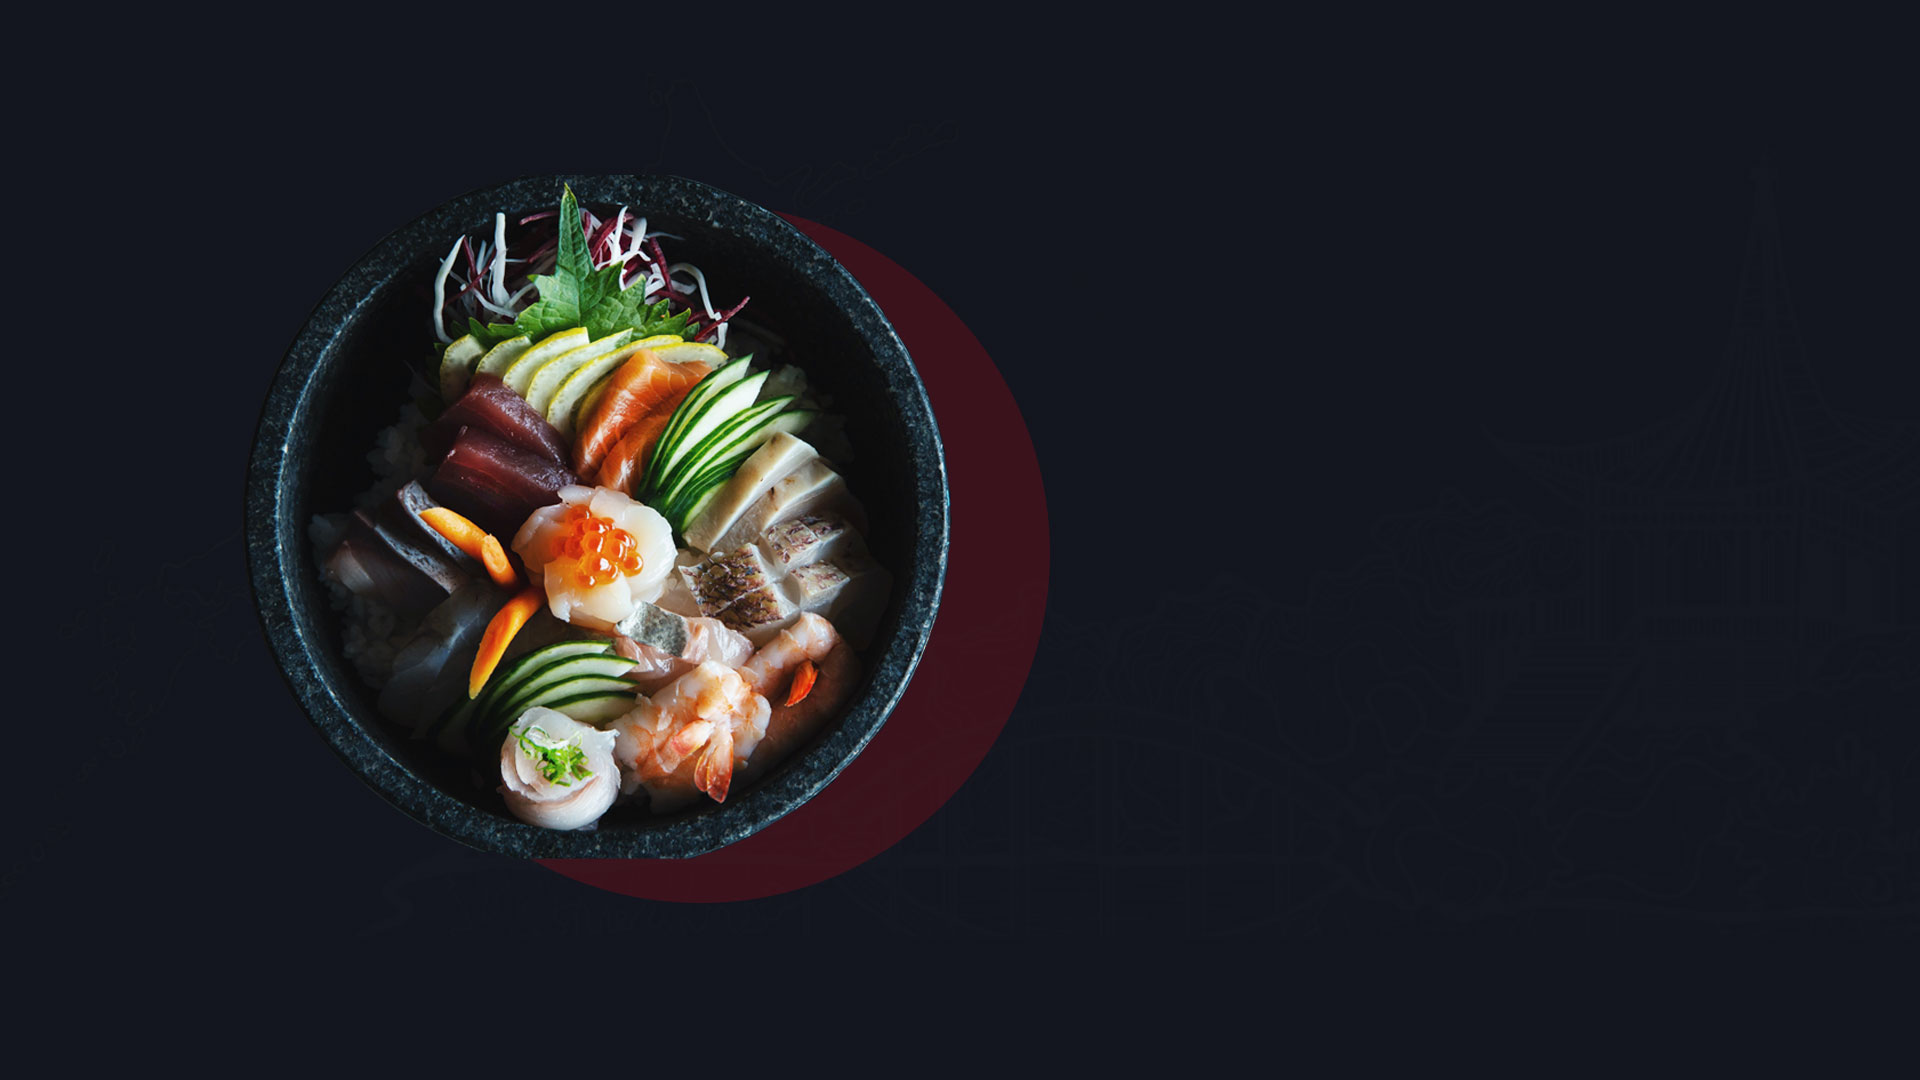
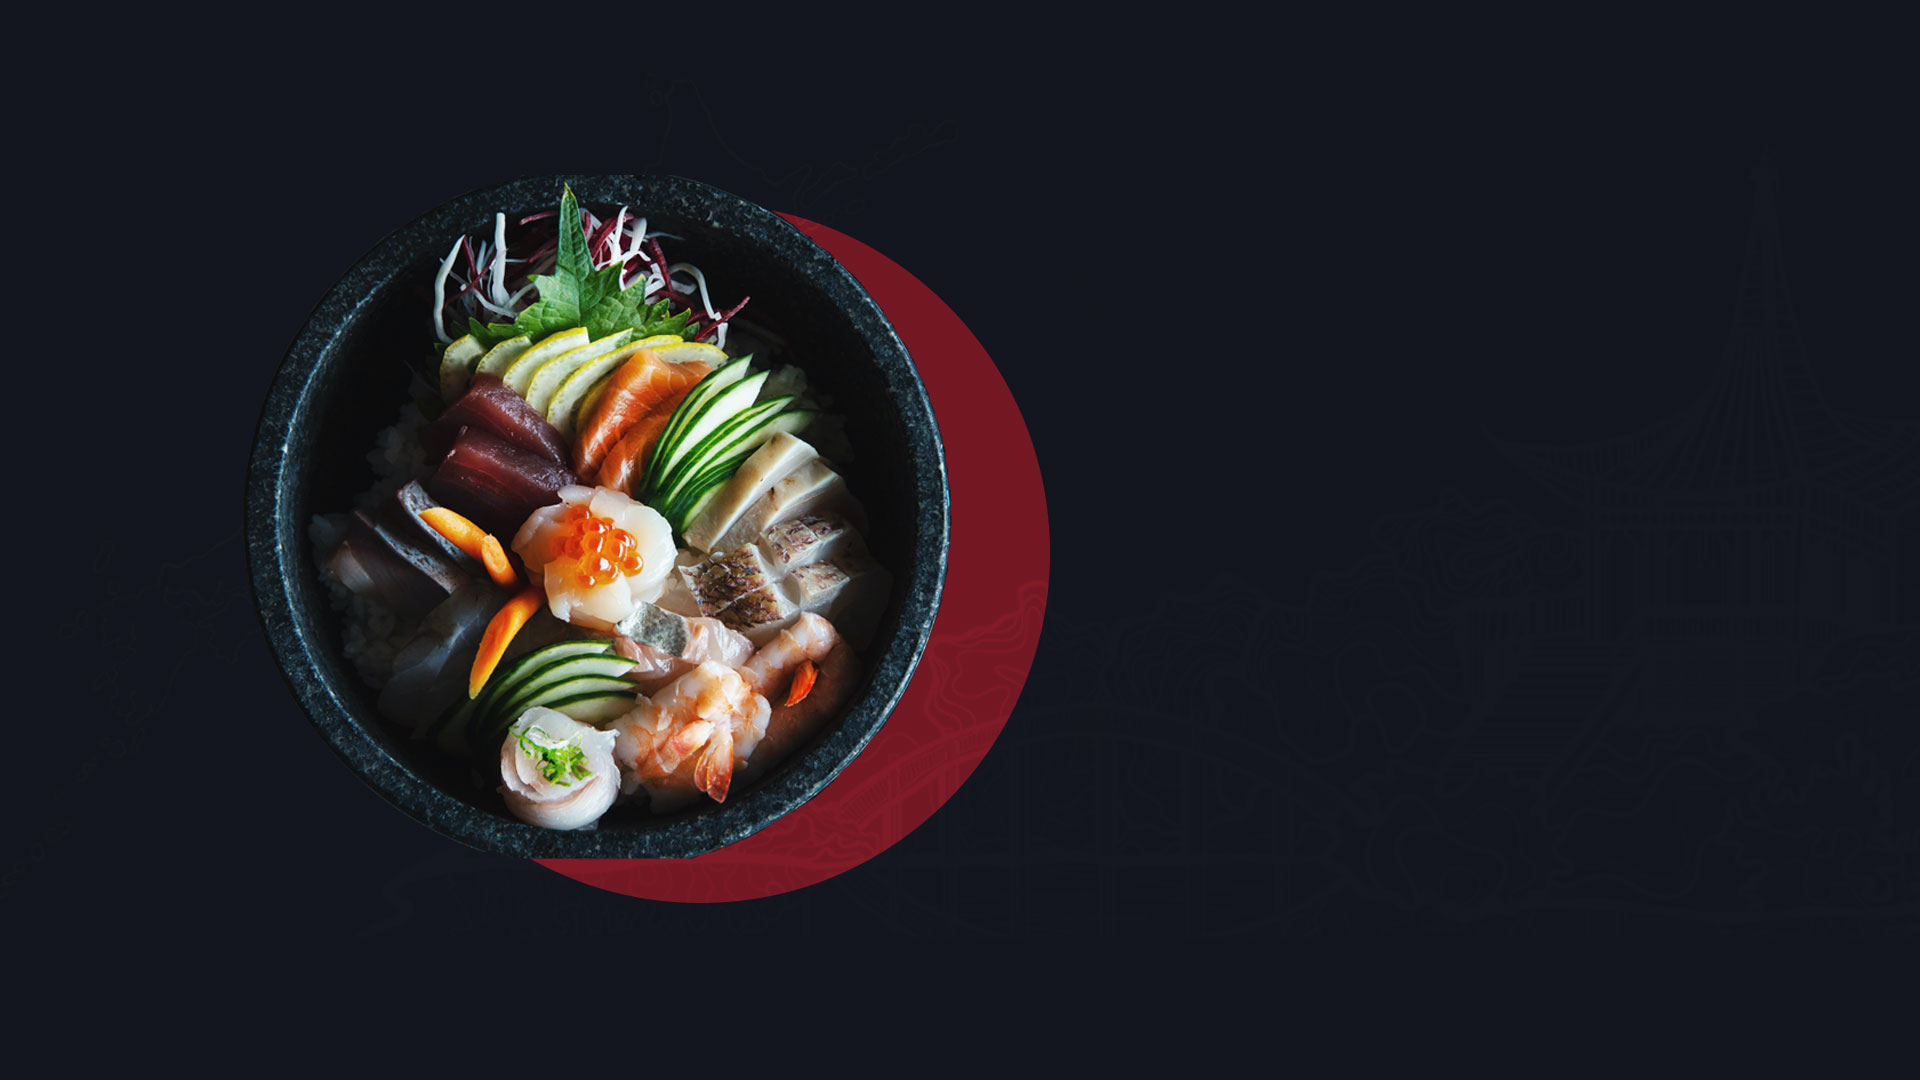
style: :lipstick: session menus

Changed region(s): [[0.2812, 0.1833, 0.5625, 0.8556]]

diff --git a/resources/css/app.css b/resources/css/app.css
@@ -4,17 +4,19 @@
 
 
 .main-hero,
-.section-about {
+.section-about,
+.section-menus {
     height: 39rem;
 }
 
 @media (min-width:1440px) {
     .main-hero,
-    .section-about {
+    .section-about,
+    .section-menus {
         height: 49rem;
     }
 }
 
 body {
-    background-color: #13151E;
+    background-color: #13161f;
 }

diff --git a/resources/views/welcome.blade.php b/resources/views/welcome.blade.php
@@ -1,10 +1,10 @@
 <x-guest-layout>
     <!-- Main Hero Content -->
-    <div class="main-hero py-32 mx-auto -mt-24 text-left bg-center bg-no-repeat bg-cover md:max-w-none md:text-center"
+    <div class="main-hero py-32 mx-auto -mt-24 text-left bg-center bg-no-repeat bg-contain md:max-w-none md:text-center"
         style="background-image: url('{{ asset('images/banner-1.jpg') }}')">
     </div>
     <!-- End Main Hero Content -->
-    <section class="section-about px-2 py-32 bg-center bg-no-repeat bg-cover md:max-w-none md:text-center"
+    <section class="section-about px-2 py-32 bg-center bg-no-repeat bg-contain md:max-w-none md:text-center"
         style="background-image: url('{{ asset('images/session-about.jpg') }}')">
         <div class="items-center max-w-6xl px-8 mx-auto xl:px-5 sm:flex sm:flex-wrap">
             <div class="flex flex-wrap items-center sm:-mx-3">
@@ -25,7 +25,8 @@
                     </p>
                     <br>
                     <p class="text-white text-end">
-                        Aqui no <span class="text-red-700">Nakaruma</span>, criamos pratos com todo cuidado e com muito sabor. Conseguindo entregar o melhor da culinária japonesa com qualidade indiscutível.
+                        Aqui no <span class="text-red-700">Nakaruma</span>, criamos pratos com todo cuidado e com muito
+                        sabor. Conseguindo entregar o melhor da culinária japonesa com qualidade indiscutível.
                         Em nossos espaços você tem momentos agradáveis, um ambiente aconchegante, além é claro, do
                         melhor atendimento e frescor dos alimentos.
                     </p>
@@ -33,24 +34,26 @@
             </div>
         </div>
     </section>
-    <section class="mt-8 bg-white">
-        <div class="mt-4 text-center">
-            <h3 class="text-2xl font-bold">Our Menu</h3>
-            <h2 class="text-3xl font-bold text-transparent bg-clip-text bg-gradient-to-r from-green-400 to-blue-500">
+    <section class="section-menus bg-center bg-no-repeat bg-contain md:max-w-none md:text-center"
+    style="background-image: url('{{ asset('images/session-menus.jpg') }}')">
+        <div class="text-center">
+            <h3 class="text-red-700 text-2xl font-bold">Our Menu</h3>
+            <h2 class="text-white text-3xl font-bold">
                 TODAY'S SPECIALITY</h2>
         </div>
         <div class="container w-full px-5 py-6 mx-auto">
             <div class="grid lg:grid-cols-3 md:grid-cols-2 gap-y-6">
+
                 @foreach ($specials->menus as $menu)
-                    <div class="max-w-xs mx-4 mb-2 rounded-lg shadow-lg">
-                        <img class="w-full h-48" src="{{ Storage::url($menu->image) }}" alt="Image" />
-                        <div class="px-6 py-4">
-                            <h4 class="mb-3 text-xl font-semibold tracking-tight text-green-600 uppercase">
+                    <div class="bg-slate-800 max-w-xs mx-4 mb-2 rounded-lg shadow-lg">
+                        <img class="w-full h-48 rounded-t" src="{{ Storage::url($menu->image) }}" alt="Image" />
+                        <div class="px-4 py-4">
+                            <h4 class="mb-3 text-xl font-semibold tracking-tight text-white uppercase text-start">
                                 {{ $menu->name }}</h4>
-                            <p class="leading-normal text-gray-700">{{ $menu->description }}</p>
+                            <p class="leading-normal text-gray-600 text-start">{{ $menu->description }}</p>
                         </div>
                         <div class="flex items-center justify-between p-4">
-                            <span class="text-xl text-green-600">{{ $menu->price }}</span>
+                            <span class="text-xl text-red-700 font-semibold">R$ {{ $menu->price }}</span>
                         </div>
                     </div>
                 @endforeach

diff --git a/resources/views/layouts/guest.blade.php b/resources/views/layouts/guest.blade.php
@@ -9,7 +9,7 @@
     <title>{{ config('app.name', 'Nakamura') }}</title>
 
     <!-- Fonts -->
-    <link rel="stylesheet" href="https://fonts.bunny.net/css2?family=Nunito:wght@400;600;700&display=swap">
+    <link rel="stylesheet" href="https://fonts.googleapis.com/css2?family=Ubuntu:wght@300;400;700&display=swap">
 
     <!-- Scripts -->
     @vite(['resources/css/app.css', 'resources/js/app.js'])
@@ -47,7 +47,7 @@
         {{ $slot }}
     </div>
     <footer>
-        <div class="container flex flex-wrap items-center justify-center px-4 py-4 mx-auto lg:justify-between">
+        <div class="container flex flex-wrap items-center justify-center px-4 py-4 mx-auto">
             <div class="flex flex-wrap justify-center">
                 <h2 class="flex items-center space-x-4 text-gray-500">
                     Nakamura ©2022 - <a href="https://becardine.dev/" target="_blank" class="hover:text-red-500 delay-100 pl-1"> becardine</a>

diff --git a/resources/views/layouts/app.blade.php b/resources/views/layouts/app.blade.php
@@ -5,10 +5,10 @@
         <meta name="viewport" content="width=device-width, initial-scale=1">
         <meta name="csrf-token" content="{{ csrf_token() }}">
 
-        <title>{{ config('app.name', 'Laravel') }}</title>
+        <title>{{ config('app.name', 'Nakamura') }}</title>
 
         <!-- Fonts -->
-        <link rel="stylesheet" href="https://fonts.bunny.net/css2?family=Nunito:wght@400;600;700&display=swap">
+        <link rel="stylesheet" href="https://fonts.googleapis.com/css2?family=Ubuntu:wght@300;400;700&display=swap">
 
         <!-- Scripts -->
         @vite(['resources/css/app.css', 'resources/js/app.js'])

diff --git a/resources/views/layouts/admin.blade.php b/resources/views/layouts/admin.blade.php
@@ -6,10 +6,10 @@
     <meta name="viewport" content="width=device-width, initial-scale=1">
     <meta name="csrf-token" content="{{ csrf_token() }}">
 
-    <title>{{ config('app.name', 'Laravel') }}</title>
+    <title>{{ config('app.name', 'Nakamura') }}</title>
 
     <!-- Fonts -->
-    <link rel="stylesheet" href="https://fonts.bunny.net/css2?family=Nunito:wght@400;600;700&display=swap">
+    <link rel="stylesheet" href="https://fonts.googleapis.com/css2?family=Ubuntu:wght@300;400;700&display=swap">
 
     <!-- Scripts -->
     @vite(['resources/css/app.css', 'resources/js/app.js'])
